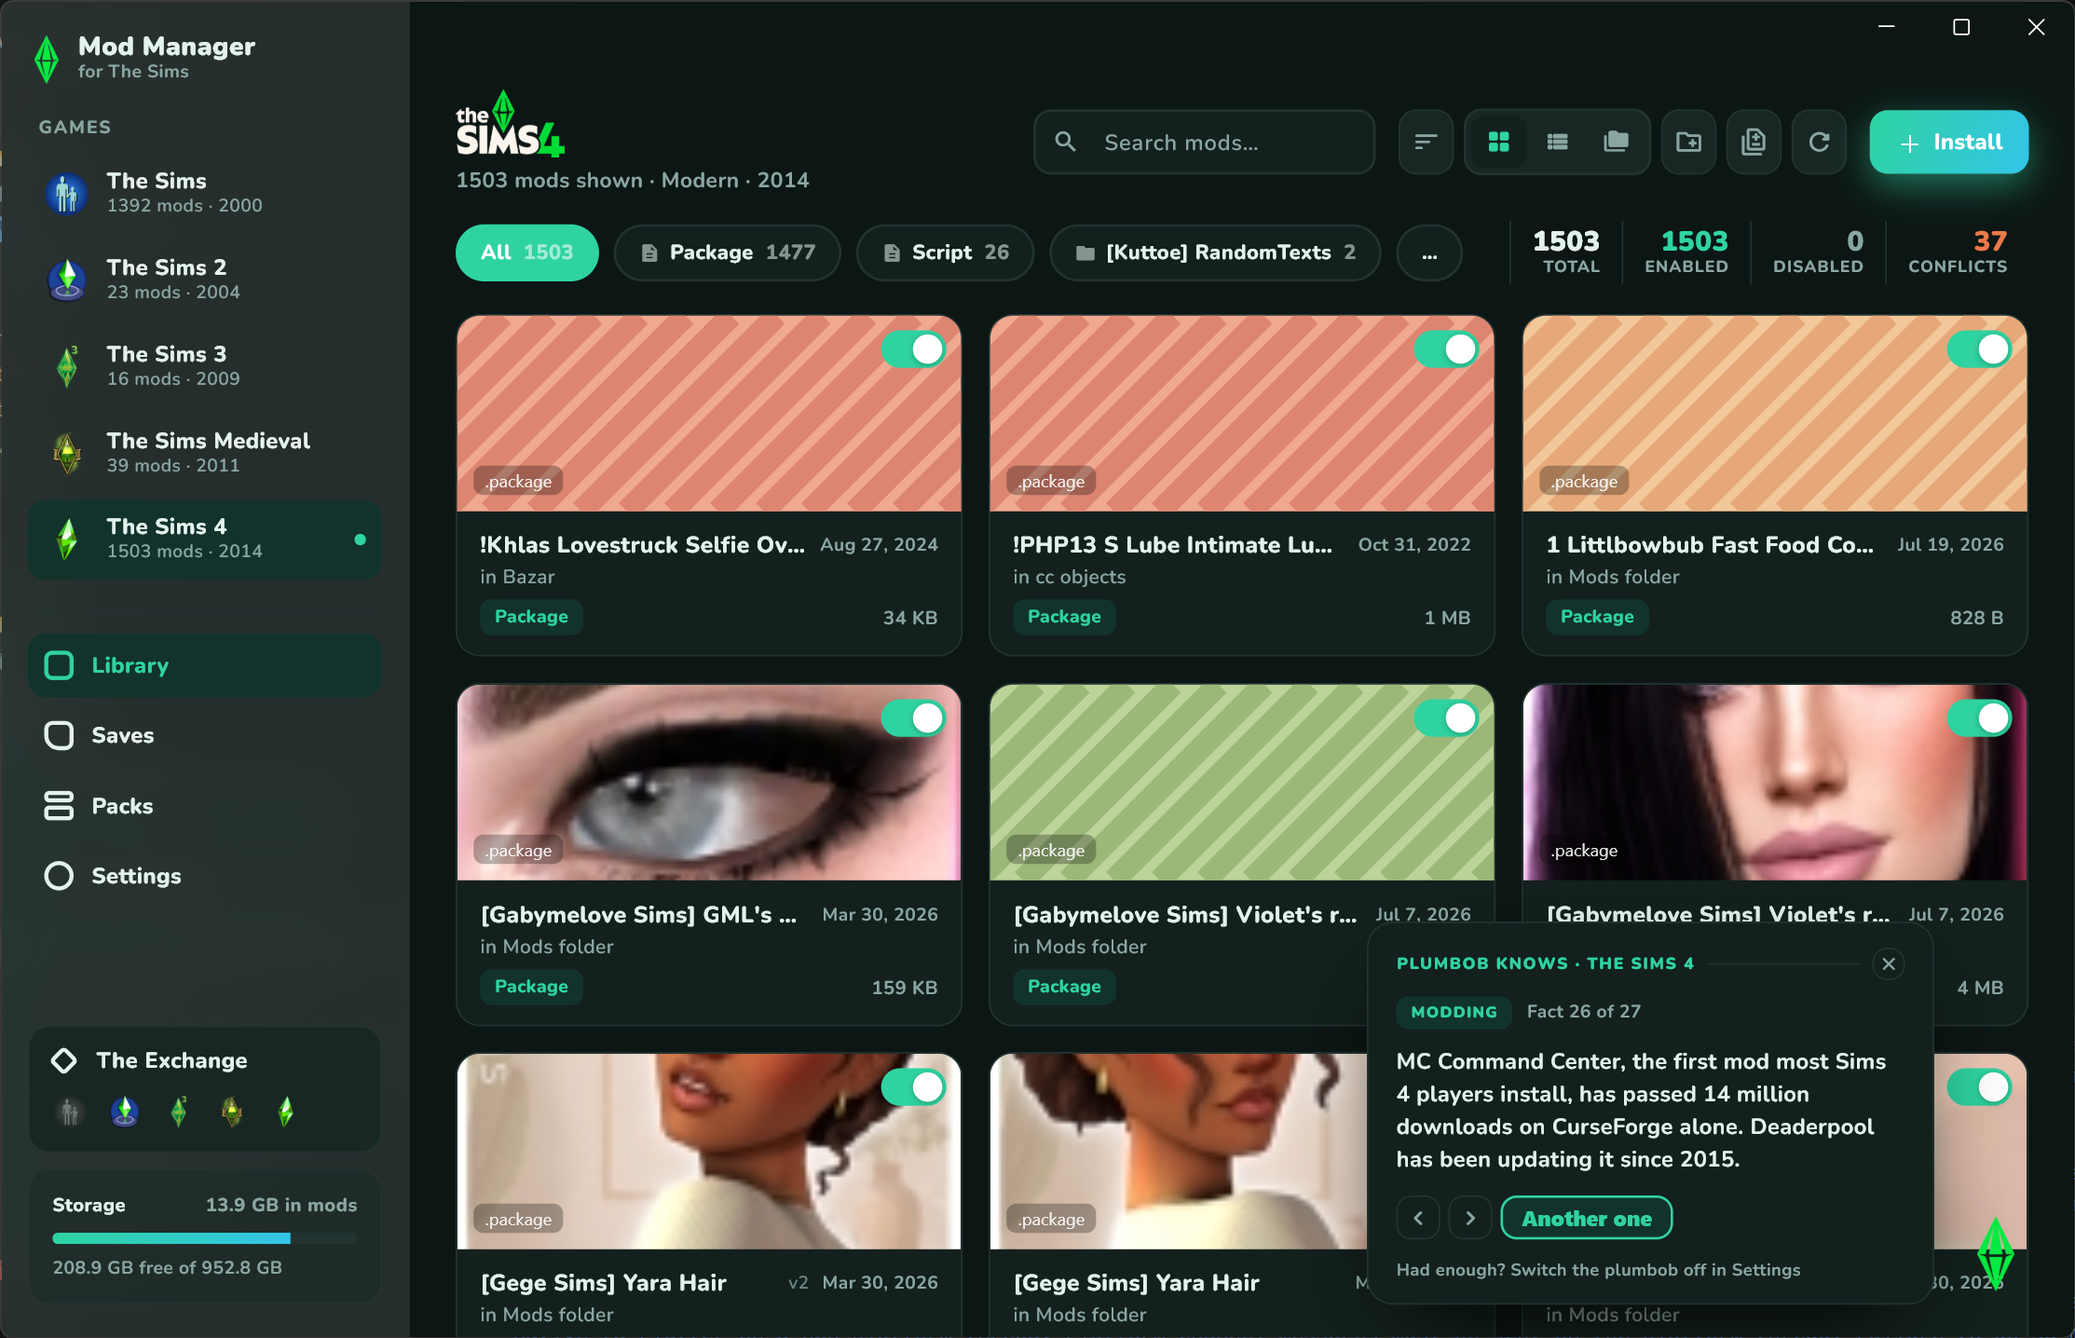
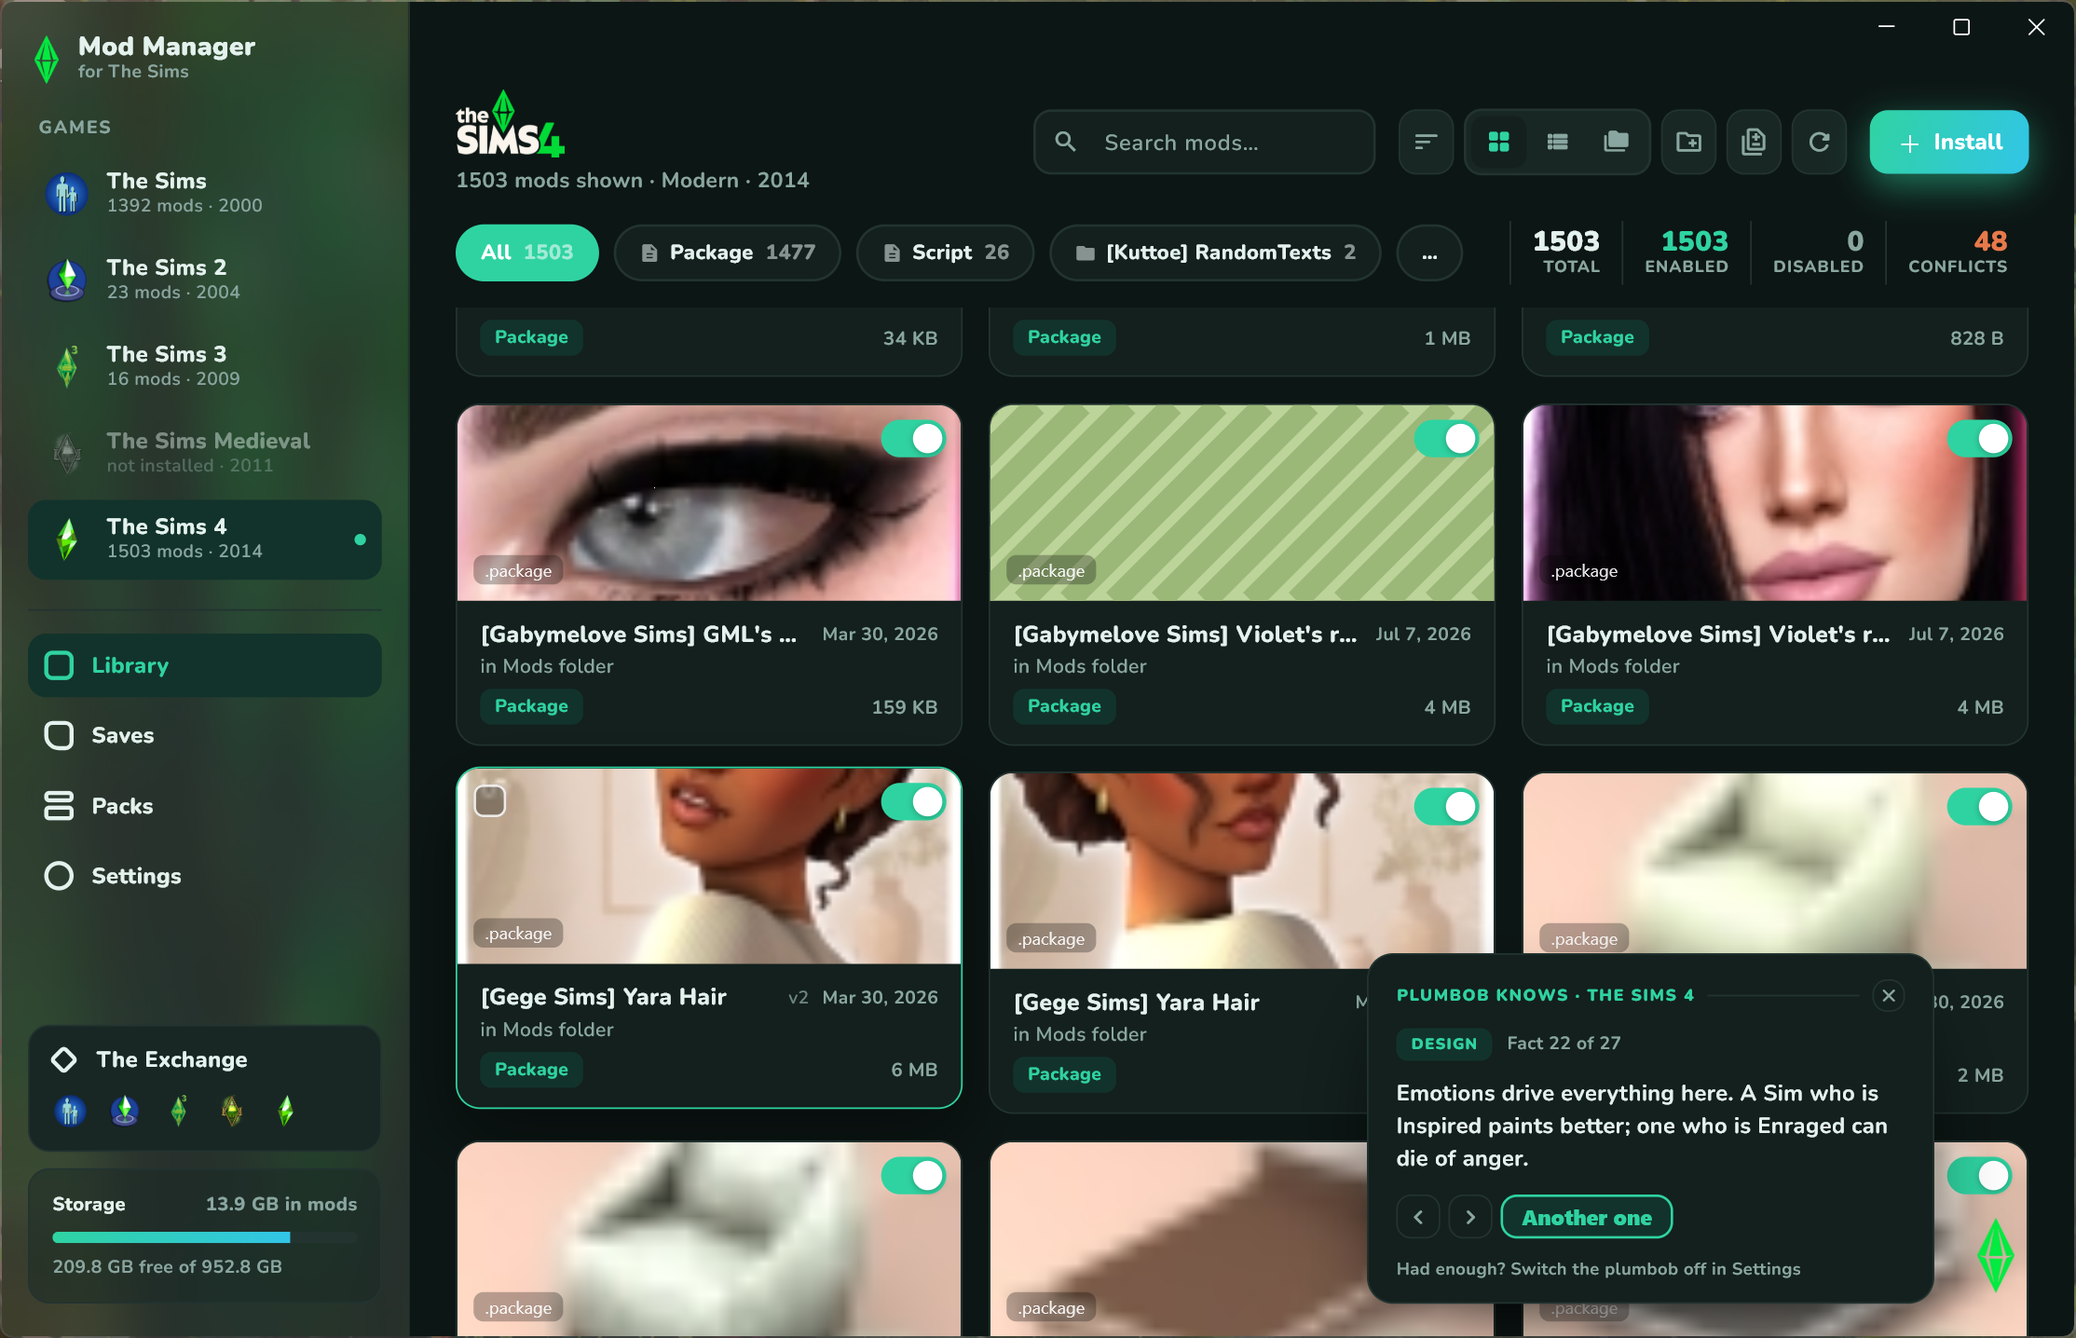
Release v2.4.2

diff --git a/test/save_games_test.dart b/test/save_games_test.dart
@@ -348,10 +348,13 @@ void main() {
       return b.toBytes();
     }
 
+    /// [unknownWord] is the word between the lots and the funds - the one
+    /// that reads like a name-string instance and isn't. Real saves put
+    /// anything there, so the tests point it somewhere wrong on purpose.
     Uint8List fami({
       required int lot,
-      required int nameString,
       required int money,
+      int unknownWord = 0,
       int version = 0x4E,
     }) {
       final b = BytesBuilder();
@@ -363,7 +366,7 @@ void main() {
       // a real save gates them.
       if (version >= 0x51) u32(b, lot); // business lot
       if (version >= 0x55) u32(b, 0); // vacation lot
-      u32(b, nameString);
+      u32(b, unknownWord);
       u32(b, money);
       u32(b, 1); // family friends
       u32(b, 0); // flags
@@ -483,10 +486,14 @@ void main() {
                   gender: 0,
                   stats: {68: 0x1}), // ghost flags: this one is a ghost
               instance: 6),
-          Res(0x46414D49, fami(lot: 9, nameString: 0x21, money: 1234),
+          // The family's name is the string sharing its instance; the
+          // word inside the record points at another family's, which is
+          // exactly what a played hood does.
+          Res(0x46414D49, fami(lot: 9, money: 1234, unknownWord: 0x21),
               instance: 1),
           Res(0x0BF999E7, ltxt('42 Main Street'), instance: 9),
-          Res(0x53545223, strResource(['Pleasant']), instance: 0x21),
+          Res(0x53545223, strResource(['Pleasant']), instance: 1),
+          Res(0x53545223, strResource(['Somebody else']), instance: 0x21),
           // The hood's own catalog description: its name, then its blurb.
           Res(0x43545353, strResource(['Pleasantview', 'Where it all began.'])),
           Res(0xCC364C2A, srel(70, (1 << 4) | (1 << 3)), // friends + married
@@ -516,7 +523,9 @@ void main() {
       Directory(p.join(hood.path, 'Thumbnails')).createSync();
       File(p.join(hood.path, 'Thumbnails', 'N001_FamilyThumbnails.package'))
           .writeAsBytesSync(buildV1Package([
-        Res(0x856DDBAC, fakeJpeg(220, 160), instance: 0x21),
+        // Keyed by the family's instance, and written as the jpg type -
+        // which is the only one a real thumbnail package uses.
+        Res(0x8C3CE95A, fakeJpeg(220, 160), instance: 1),
       ]));
 
       File(p.join(hood.path, 'N001_Neighborhood.png'))
@@ -611,16 +620,22 @@ void main() {
       File(p.join(hood.path, 'N001_Neighborhood.package')).writeAsBytesSync(
         buildV1Package([
           for (final entry in versions.entries) ...[
-            Res(
-                0x46414D49,
-                fami(
-                    lot: 9,
-                    nameString: 0x30 + instance,
-                    money: entry.value,
-                    version: entry.key),
+            Res(0x46414D49,
+                fami(lot: 9, money: entry.value, version: entry.key),
                 instance: ++instance),
-            Res(0x53545223, strResource(['Family${entry.key.toRadixString(16)}']),
-                instance: 0x30 + instance - 1),
+            Res(
+                0x53545223,
+                strResource(['Family${entry.key.toRadixString(16)}']),
+                instance: instance),
+            Res(
+                0xAACE2EFB,
+                sdsc(
+                    instance: 0x50 + instance,
+                    guid: 0xC000 + instance,
+                    family: instance,
+                    age: 0x13,
+                    gender: 1),
+                instance: 0x50 + instance),
           ],
           Res(0x43545353, strResource(['Pleasantview', 'Where it began.'])),
         ]),
@@ -634,6 +649,49 @@ void main() {
         'Family4e': 1200,
         'Family54': 2500,
         'Family55': 72085,
+      });
+    });
+
+    // Issue #18: a played hood where the word inside each family record
+    // lands on the family after it. Reading names off it handed every
+    // household its neighbour's, which is what a real save reported -
+    // a single sim's home labelled with the dorm next door.
+    test('names a household from its own instance, never from that word',
+        () {
+      final hoods = Directory(p.join(tempDir.path, 'Neighborhoods'))
+        ..createSync();
+      final hood = Directory(p.join(hoods.path, 'N001'))..createSync();
+
+      const names = {1: 'Gen 2', 2: 'Brivio', 3: 'Dude Bros'};
+      File(p.join(hood.path, 'N001_Neighborhood.package')).writeAsBytesSync(
+        buildV1Package([
+          for (final entry in names.entries) ...[
+            Res(
+                0x46414D49,
+                fami(lot: 0, money: 100 * entry.key, unknownWord: entry.key + 1),
+                instance: entry.key),
+            Res(0x53545223, strResource([entry.value]), instance: entry.key),
+            Res(
+                0xAACE2EFB,
+                sdsc(
+                    instance: 0x50 + entry.key,
+                    guid: 0xD000 + entry.key,
+                    family: entry.key,
+                    age: 0x13,
+                    gender: 1),
+                instance: 0x50 + entry.key),
+          ],
+          Res(0x43545353, strResource(['Greystone Harbor', 'A harbor.'])),
+        ]),
+      );
+
+      final save = scanSims2Saves(hoods.path).single;
+      expect({
+        for (final household in save.households) household.funds: household.name
+      }, {
+        100: 'Gen 2',
+        200: 'Brivio',
+        300: 'Dude Bros',
       });
     });
 
@@ -661,28 +719,28 @@ void main() {
       File(p.join(hood.path, 'N001_Neighborhood.package')).writeAsBytesSync(
         buildV1Package([
           // A household: on a lot, and small enough to be one.
-          Res(0x46414D49, fami(lot: 9, nameString: 0x21, money: 1234),
-              instance: 1),
-          Res(0x53545223, strResource(['Pleasant']), instance: 0x21),
+          Res(0x46414D49, fami(lot: 9, money: 1234), instance: 1),
+          Res(0x53545223, strResource(['Pleasant']), instance: 1),
           Res(0x0BF999E7, ltxt('42 Main Street'), instance: 9),
           ...simsIn(1, 3),
           // The townie pool: a family record like any other, and every
           // sim without a home points at it.
-          Res(0x46414D49, fami(lot: 0, nameString: 0x22, money: 20000),
-              instance: 0x7FFF),
-          Res(0x53545223, strResource(['Townies']), instance: 0x22),
+          Res(0x46414D49, fami(lot: 0, money: 20000), instance: 0x7FFF),
+          Res(0x53545223, strResource(['Townies']), instance: 0x7FFF),
           ...simsIn(0x7FFF, 12),
           // The dead, who carry no family at all.
-          Res(0x46414D49, fami(lot: 0, nameString: 0x23, money: 0),
-              instance: 0),
-          Res(0x53545223, strResource(['Ancestors']), instance: 0x23),
+          Res(0x46414D49, fami(lot: 0, money: 0), instance: 0),
+          Res(0x53545223, strResource(['Ancestors']), instance: 0),
           ...simsIn(0, 9),
           // And a pool under a number this doesn't know, caught by the
           // eight-sim cap instead.
-          Res(0x46414D49, fami(lot: 0, nameString: 0x24, money: 20000),
-              instance: 0x7F00),
-          Res(0x53545223, strResource(['Unknown pool']), instance: 0x24),
+          Res(0x46414D49, fami(lot: 0, money: 20000), instance: 0x7F00),
+          Res(0x53545223, strResource(['Unknown pool']), instance: 0x7F00),
           ...simsIn(0x7F00, 11),
+          // A record with a name and nobody in it: an address the hood
+          // keeps after a household has left.
+          Res(0x46414D49, fami(lot: 0, money: 0), instance: 2),
+          Res(0x53545223, strResource(['Moved out']), instance: 2),
           Res(0x43545353, strResource(['Pleasantview', 'Where it began.'])),
         ]),
       );
@@ -717,8 +775,7 @@ void main() {
               0xAACE2EFB,
               sdsc(instance: 5, guid: 0xA001, family: 1, age: 0x13, gender: 1),
               instance: 5),
-          Res(0x46414D49, fami(lot: 9, nameString: 0x21, money: 1234),
-              instance: 1),
+          Res(0x46414D49, fami(lot: 9, money: 1234), instance: 1),
           // The lot predates UTF-8 and is in the code page Windows ran.
           Res(
               0x0BF999E7,
@@ -726,7 +783,7 @@ void main() {
                   encode: cp1252, blurb: 'Un coin très calme…'),
               instance: 9),
           Res(0x53545223, strResource(['Gonçalves'], encode: utf8.encode),
-              instance: 0x21),
+              instance: 1),
           Res(
               0x43545353,
               strResource(

diff --git a/lib/src/games/the_sims/sims2_saves.dart b/lib/src/games/the_sims/sims2_saves.dart
@@ -16,8 +16,8 @@ import '../../core/save_game.dart';
 /// which reads exactly these resources) and SimsWiki's format pages:
 /// SDSC carries each sim's stats in a ushort array whose indices Sims 2
 /// inherited from The Sims 1's person data, FAMI each family's funds and
-/// lot, SREL each relationship. Names are indirect: a family's name is a
-/// string resource the FAMI points at, a sim's name lives in its
+/// lot, SREL each relationship. Names are indirect: a family's name is
+/// the string resource sharing its instance, a sim's name lives in its
 /// character package's CTSS, joined over the OBJD GUID. Images are the
 /// loose neighborhood PNG, the ready-rendered family JPEGs in
 /// `Thumbnails/<hood>_FamilyThumbnails.package`, and the player's own
@@ -34,8 +34,7 @@ const _strType = 0x53545223;
 const _ctssType = 0x43545353;
 const _objdType = 0x4F424A44;
 
-/// The jpg/tga/png image resource; family thumbnails are these, keyed by
-/// the same instance as the family's name string.
+/// The jpg/tga/png image resource.
 const _imgType = 0x856DDBAC;
 
 /// The family numbers that mean "this sim has no household": the dead and
@@ -392,10 +391,12 @@ SaveGame? _parseHood(Directory folder, String code, File package) {
       if (family.lotInstance == 0 && members.length > _maxHouseholdSims) {
         continue;
       }
-      final familyName = hood.familyNames[family.nameInstance];
-      if ((familyName == null || familyName.isEmpty) && members.isEmpty) {
-        continue;
-      }
+      // Nobody lives here. Every hood keeps a handful of these - a record
+      // left behind by a household that moved out, an address the game
+      // reserved - and they were invisible only for as long as their
+      // names were unreadable: Riverblossom Hills alone carries eleven.
+      if (members.isEmpty) continue;
+      final familyName = hood.familyNames[family.instance];
       final lot = hood.lots[family.lotInstance];
       households.add(SaveHousehold(
         name: familyName != null && familyName.isNotEmpty
@@ -406,7 +407,7 @@ SaveGame? _parseHood(Directory folder, String code, File package) {
         description: lot?.description,
         lotTypeKey: lot?.typeKey,
         isPlayed: family.lotInstance != 0,
-        portrait: familyThumbs?[family.nameInstance],
+        portrait: familyThumbs?[family.instance],
         members: [
           for (final sim in members)
             _toSim(sim, names?[sim.guid], _portraitOf(sim, names?[sim.guid]),
@@ -468,7 +469,7 @@ class _Hood {
   final List<_SimRecord> sims;
   final List<_FamilyRecord> families;
 
-  /// Name-string instance -> the family's display name.
+  /// Family instance -> the family's display name.
   final Map<int, String> familyNames;
 
   /// Lot instance -> what its description resource says.
@@ -493,11 +494,10 @@ class _SimRecord {
 }
 
 class _FamilyRecord {
-  _FamilyRecord(this.instance, this.lotInstance, this.nameInstance, this.money);
+  _FamilyRecord(this.instance, this.lotInstance, this.money);
 
   final int instance;
   final int lotInstance;
-  final int nameInstance;
   final int money;
 }
 
@@ -544,17 +544,17 @@ _Hood _readHood(RandomAccessFile raf, List<DbpfEntry> entries) {
     }
   }
 
-  // Only the string tables and lot descriptions the families point at
-  // are decompressed - a hood package carries hundreds of others.
+  // Only the string tables and lot descriptions the families need are
+  // decompressed - a hood package carries hundreds of others.
   final familyNames = <int, String>{};
   final lots = <int, _LotInfo>{};
   for (final family in families) {
-    if (!familyNames.containsKey(family.nameInstance)) {
-      final entry = strEntries[family.nameInstance];
+    if (!familyNames.containsKey(family.instance)) {
+      final entry = strEntries[family.instance];
       final blob = entry == null ? null : readDbpfResource(raf, entry);
       final strings = blob == null ? const <String>[] : _parseStrResource(blob);
       if (strings.isNotEmpty && strings.first.trim().isNotEmpty) {
-        familyNames[family.nameInstance] = strings.first.trim();
+        familyNames[family.instance] = strings.first.trim();
       }
     }
     if (family.lotInstance != 0 && !lots.containsKey(family.lotInstance)) {
@@ -636,17 +636,28 @@ _SimRecord? _parseSdsc(RandomAccessFile raf, DbpfEntry entry) {
 }
 
 /// FAMI: type echo, version, zero, lot instance, the expansions' extra
-/// lots, then the name-string instance and the family funds. Only fields
-/// up to the money are read, so unknown later versions still parse.
+/// lots, a word this doesn't read, then the family funds. Only fields up
+/// to the money are read, so unknown later versions still parse.
 ///
 /// The version gates those extra lots, and the numbers are the file's
 /// own: one install carries 0x4E in the hoods EA shipped, 0x54 and 0x55
 /// in the ones the game has written since, each step inserting one more
-/// lot ahead of the name. They read 0x81 and 0x85 until this was checked
+/// lot ahead of the funds. They read 0x81 and 0x85 until this was checked
 /// against real saves - 81 and 85 written as though they were already
 /// hex - so a 0x55 hood took its funds from the word before, which is
 /// zero on every family in it, and the whole neighborhood was worth
 /// nothing.
+///
+/// The word before the money is not the family's name string, though it
+/// reads like one and was taken for one until issue #18: in a hood the
+/// game has only ever added to, it happens to equal the family's own
+/// instance, so Pleasantview and every other freshly started save named
+/// its households correctly. It drifts as soon as households are created
+/// and deleted out of step - across the shipped hoods it points at some
+/// other family's name (Riverblossom Hills' McGreggors read as
+/// "Goldstein", Belladonna Cove's Cordials as "Ottomas") or at nothing at
+/// all. The name is the STR# sharing the family's own instance, which is
+/// what the family thumbnails are keyed by too.
 _FamilyRecord? _parseFami(RandomAccessFile raf, DbpfEntry entry) {
   final blob = readDbpfResource(raf, entry);
   if (blob == null || blob.length < 24) return null;
@@ -658,11 +669,9 @@ _FamilyRecord? _parseFami(RandomAccessFile raf, DbpfEntry entry) {
     pos += 4;
     if (version >= 0x51) pos += 4; // Open for Business: business lot
     if (version >= 0x55) pos += 4; // Bon Voyage: vacation lot
-    final nameInstance = d.getUint32(pos, Endian.little);
-    pos += 4;
+    pos += 4; // the word that is not a name
     final money = d.getInt32(pos, Endian.little);
-    return _FamilyRecord(
-        entry.instance & 0xFFFFFFFF, lotInstance, nameInstance, money);
+    return _FamilyRecord(entry.instance & 0xFFFFFFFF, lotInstance, money);
   } catch (_) {
     return null;
   }
@@ -1027,7 +1036,14 @@ Uint8List? _readImage(RandomAccessFile raf, DbpfEntry entry) {
   return null;
 }
 
-/// Family portraits: name-string instance -> JPEG bytes.
+/// Family portraits: family instance -> JPEG bytes. The game renders one
+/// per household it has to draw in the family bin, so a hood where
+/// everyone is on a lot has none at all.
+///
+/// Both image types are accepted, and the jpg one is the point: every
+/// thumbnail package on this install writes 0x8C3CE95A, so reading only
+/// 0x856DDBAC - the type the character packages use for their sim
+/// portraits - meant no household ever had a picture.
 Map<int, Uint8List> _familyThumbnails(Directory folder, String code) {
   final thumbs = <int, Uint8List>{};
   final file = File(
@@ -1039,18 +1055,9 @@ Map<int, Uint8List> _familyThumbnails(Directory folder, String code) {
     final entries = readDbpfIndex(raf);
     if (entries == null) return thumbs;
     for (final e in entries) {
-      if (e.type != _imgType) continue;
-      var data = readDbpfResource(raf, e);
-      if (data == null) continue;
-      // Some carry a 64-byte header in front of the image (Sims2Tools
-      // retries exactly this way).
-      if (!isJpeg(data) && !isPng(data) && data.length > 0x40) {
-        final skipped = Uint8List.sublistView(data, 0x40);
-        if (isJpeg(skipped) || isPng(skipped)) data = skipped;
-      }
-      if (isJpeg(data) || isPng(data)) {
-        thumbs[e.instance & 0xFFFFFFFF] = data;
-      }
+      if (e.type != _imgType && e.type != _jpgType) continue;
+      final data = _readImage(raf, e);
+      if (data != null) thumbs[e.instance & 0xFFFFFFFF] = data;
     }
   } catch (_) {
   } finally {

diff --git a/lib/src/app_version.dart b/lib/src/app_version.dart
@@ -3,4 +3,4 @@
 /// tool/release.dart rewrites this constant on every release so the two
 /// never drift (app_version_test.dart pins them together). Don't edit the
 /// value by hand; run the release script instead.
-const String appVersion = '2.4.1';
+const String appVersion = '2.4.2';
